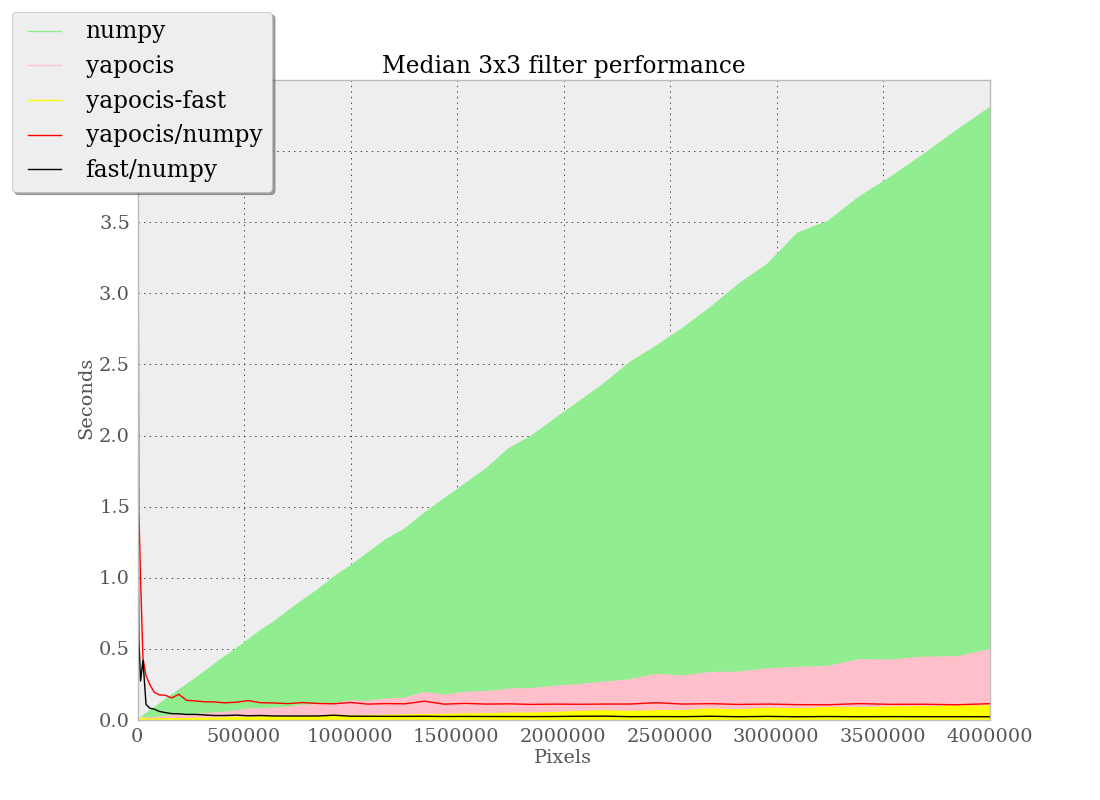
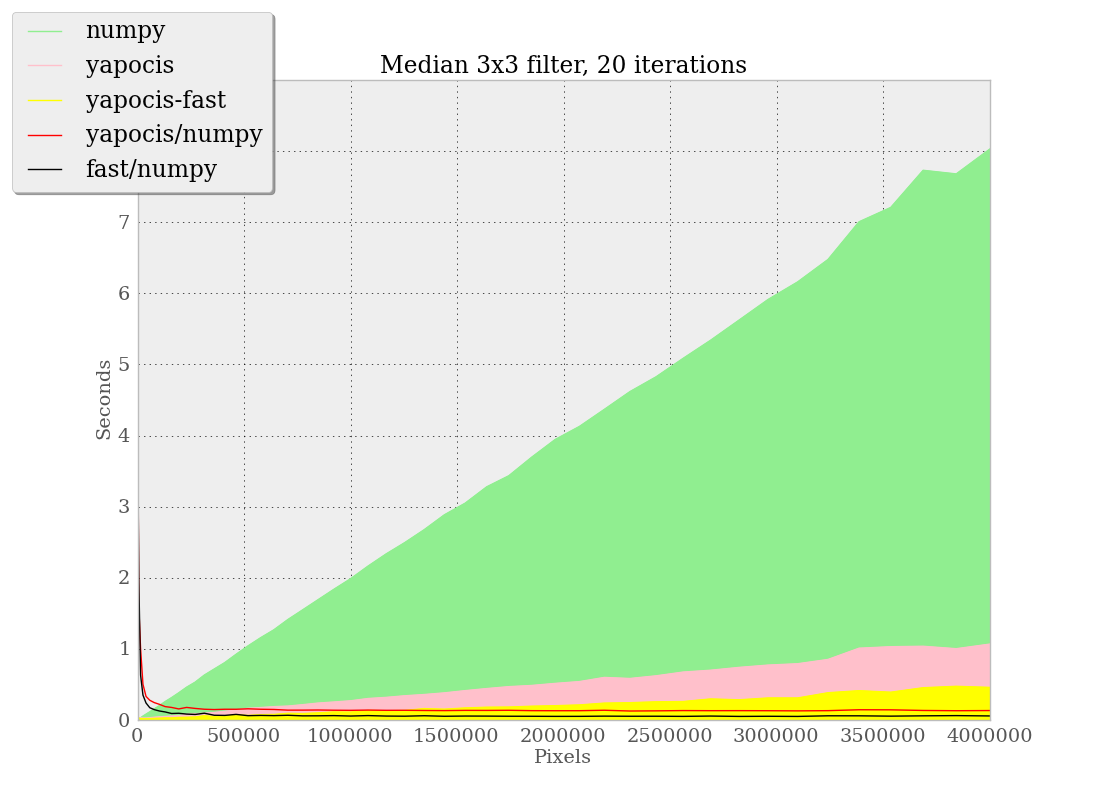
Misc
utils -- showArray() now accepts an Image as well as an array, added setFrame() and setMargin()
gaussian -- imports setMargin from utils
median3x3_comparison -- explicitly call slow,fast versions, increased iterations

diff --git a/yapocis/gaussian.py b/yapocis/gaussian.py
@@ -1,7 +1,7 @@
 import numpy as np
 from rpc import interfaces, kernels
 
-from utils import showArray, alignImage
+from utils import showArray, alignImage, setMargin, setFrame
 from gradient import gradient, gradient_res
 
 def areclose(a,b):
@@ -117,26 +117,19 @@ def test_gaussImage():
 from operators import sub_res, sub
 from zcs import zcs,  zcs_res
 
-def setMargin(a, margin, value=0.0):
-    a[:,-margin:] = value
-    a[:,:margin] = value
-    a[-margin:,:] = value
-    a[:margin,:] = value
-    
-
 def zcsdog(a, scale,clearmargin=True,frame=True, res=True):
     if res:
         g = getKernel(scale)
         g1 = getKernel(scale+1)
         g.write(a)
-        smaller = np.empty_like(a)
-        larger = np.empty_like(a)
-        tmp = np.empty_like(a)
-        zca = np.empty_like(a)
-        #g.write(smaller)
-        #g.write(larger)
-        #g.write(tmp)
-        #g.write(zca)
+        smaller = np.zeros_like(a)
+        larger = np.zeros_like(a)
+        tmp = np.zeros_like(a)
+        zca = np.zeros_like(a)
+        g.write(smaller)
+        g.write(larger)
+        g.write(tmp)
+        g.write(zca)
         g.res(0,a,tmp)
         g.res(1,tmp,smaller)
         g1.res(0,a,tmp)
@@ -150,7 +143,6 @@ def zcsdog(a, scale,clearmargin=True,frame=True, res=True):
         larger = gaussImage(a,scale+1)
         dog = smaller - larger
         zca = zcs(dog)
-    zca = np.int32(zca)
     # Zero out of bounds and create a frame.
     grad,theta = gradient(smaller)
     margin = getGaussianWidth(scale)+1
@@ -159,14 +151,7 @@ def zcsdog(a, scale,clearmargin=True,frame=True, res=True):
         setMargin(grad,margin)
         setMargin(theta,margin)
     if frame:
-        zca[0:,0:] = 1.0
-        zca[0:,:-1] = 1.0
-        zca[-1:,0:] = 1.0
-        zca[-1:,-1:] = 1.0
-        zca[margin,:-margin:margin] = 1.0
-        zca[-margin:margin,margin] = 1.0
-        zca[-margin,-margin:margin] = 1.0
-        zca[-margin:margin,-margin] = 1.0
+        setFrame(zca, margin)
     return zca.copy(),grad.copy(),theta.copy()
 
 def test_zcs():
@@ -184,7 +169,7 @@ def test_zcs():
             showArray("zcs %s" % scale, zca)
             showArray("grad %s" % scale, grad)
             showArray("theta %s" % scale, theta)
-        print "Res", res, subtotal
+        print "Res", res, "seconds", subtotal
         
 if __name__ == "__main__":
     #test_gaussian_1d()

diff --git a/yapocis/utils.py b/yapocis/utils.py
@@ -249,14 +249,12 @@ def sign(title, image):
 def _showArray(title, image):
     from PIL import ImageFont #@UnresolvedImport
     from PIL import ImageDraw #@UnresolvedImport
-    shape = image.shape
-    if DEBUG and len(shape) == 2:
-        print title, shape
-        for y in range(shape[0]):
-            print np.int32(image[y,:]*1000)/1000.
-        print "="*32
-        print
-    img = toimage(image)
+    try:
+        shape = image.shape
+        img = toimage(image)
+    except:
+        shape = image.size
+        img = image
     font = ImageFont.truetype("/System/Library/Fonts/AppleGothic.ttf",25)
     #font = ImageFont.truetype("zapfino.ttf",25)
     draw = ImageDraw.Draw(img)
@@ -402,6 +400,26 @@ def normalize(a):
     a = a-a.min()
     a = a/(a.max()*1.000001)
     return a
+
+
+def setMargin(a, margin, value=0.0):
+    a[:,-margin:] = value
+    a[:,:margin] = value
+    a[-margin:,:] = value
+    a[:margin,:] = value
+
+def setFrame(a, margin):
+    setMargin(a, margin)
+    a[0,:] = 1.0
+    a[:,0] = 1.0
+    a[-1,:] = 1.0
+    a[:,-1] = 1.0
+    # TODO: should not include corners
+    a[margin,:] = 1.0
+    a[:,margin] = 1.0
+    a[-margin,:] = 1.0
+    a[:,-margin] = 1.0
+    
 
 
 if __name__ == "__main__":

diff --git a/yapocis/examples/median3x3_comparison.py b/yapocis/examples/median3x3_comparison.py
@@ -13,7 +13,7 @@ yapocisfast_deltas = []
 yapocis_deltas = []
 numpy_deltas = []
 errors = []
-ITERATIONS=10
+ITERATIONS=20
 SAMPLES=50
 STEP=40
 for i in range(0,SAMPLES):
@@ -25,7 +25,7 @@ for i in range(0,SAMPLES):
     numpy_delta = time.time() - t
     
     t = time.time()
-    output2 = median.median3x3(img,ITERATIONS)
+    output2 = median.median3x3slow(img,ITERATIONS)
     yapocis_delta = time.time() - t
     
     t = time.time()
@@ -47,7 +47,7 @@ yapocisfast_deltas = np.array(yapocisfast_deltas)
 ratio = yapocis_deltas/numpy_deltas
 ratio2 = yapocisfast_deltas/numpy_deltas
 p = plot.subplot(111)
-plot.title("Median 3x3 filter performance",fontsize="large")
+plot.title("Median 3x3 filter, %s iterations" % ITERATIONS,fontsize="large")
 l1 = plot.plot(areas, numpy_deltas,color="lightgreen")
 l2 = plot.plot(areas, yapocis_deltas,color="pink")
 l3 = plot.plot(areas, yapocisfast_deltas,color="yellow")
